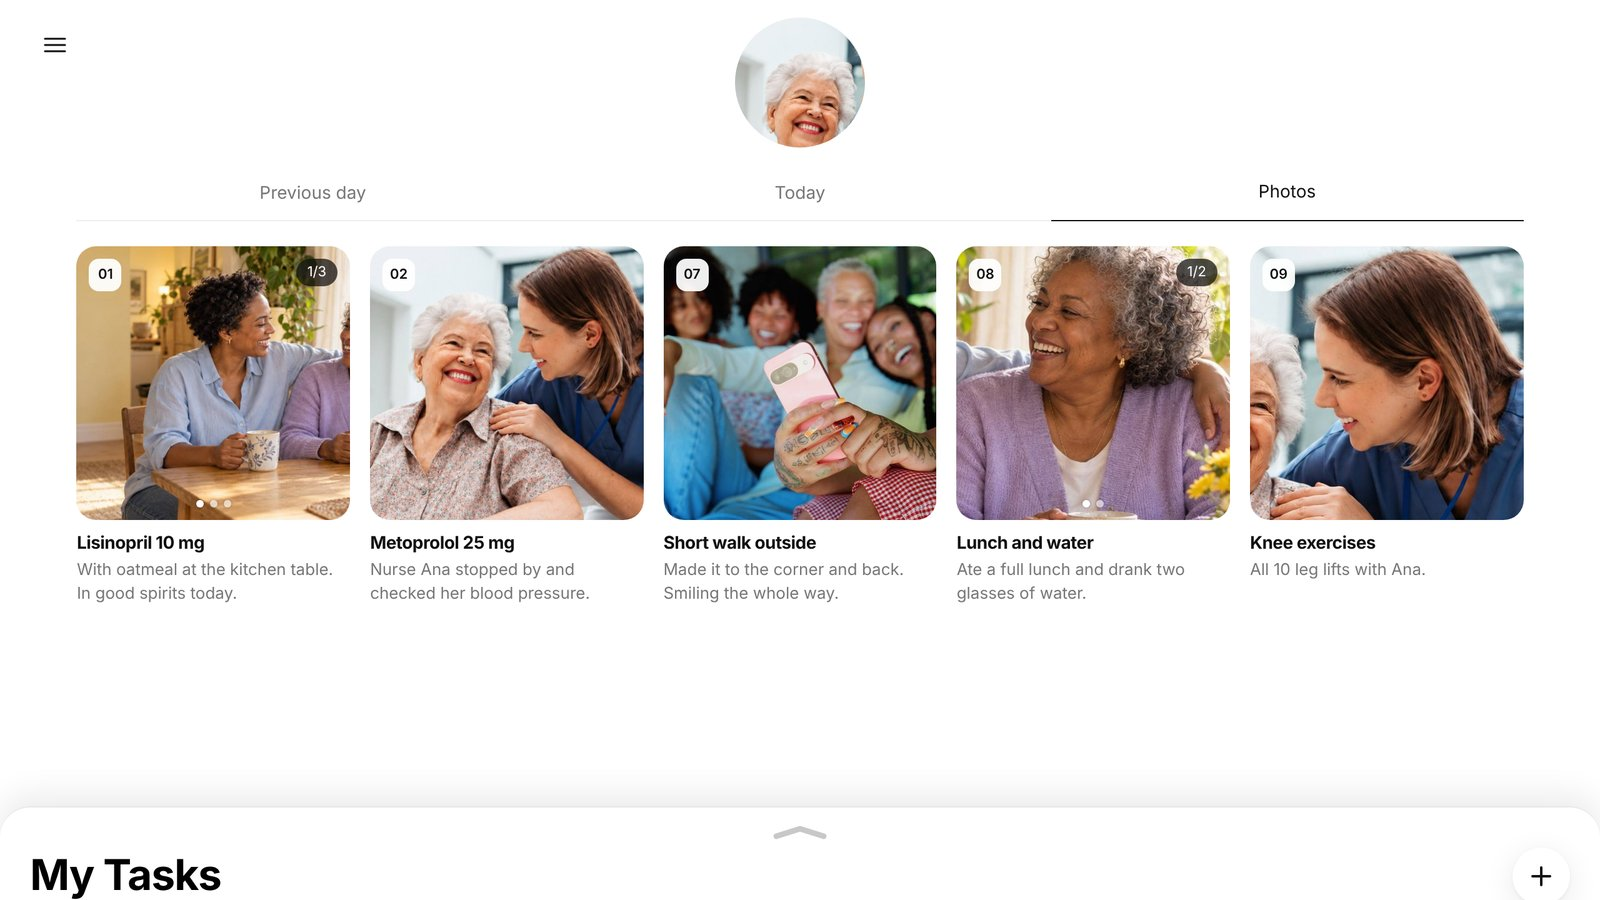
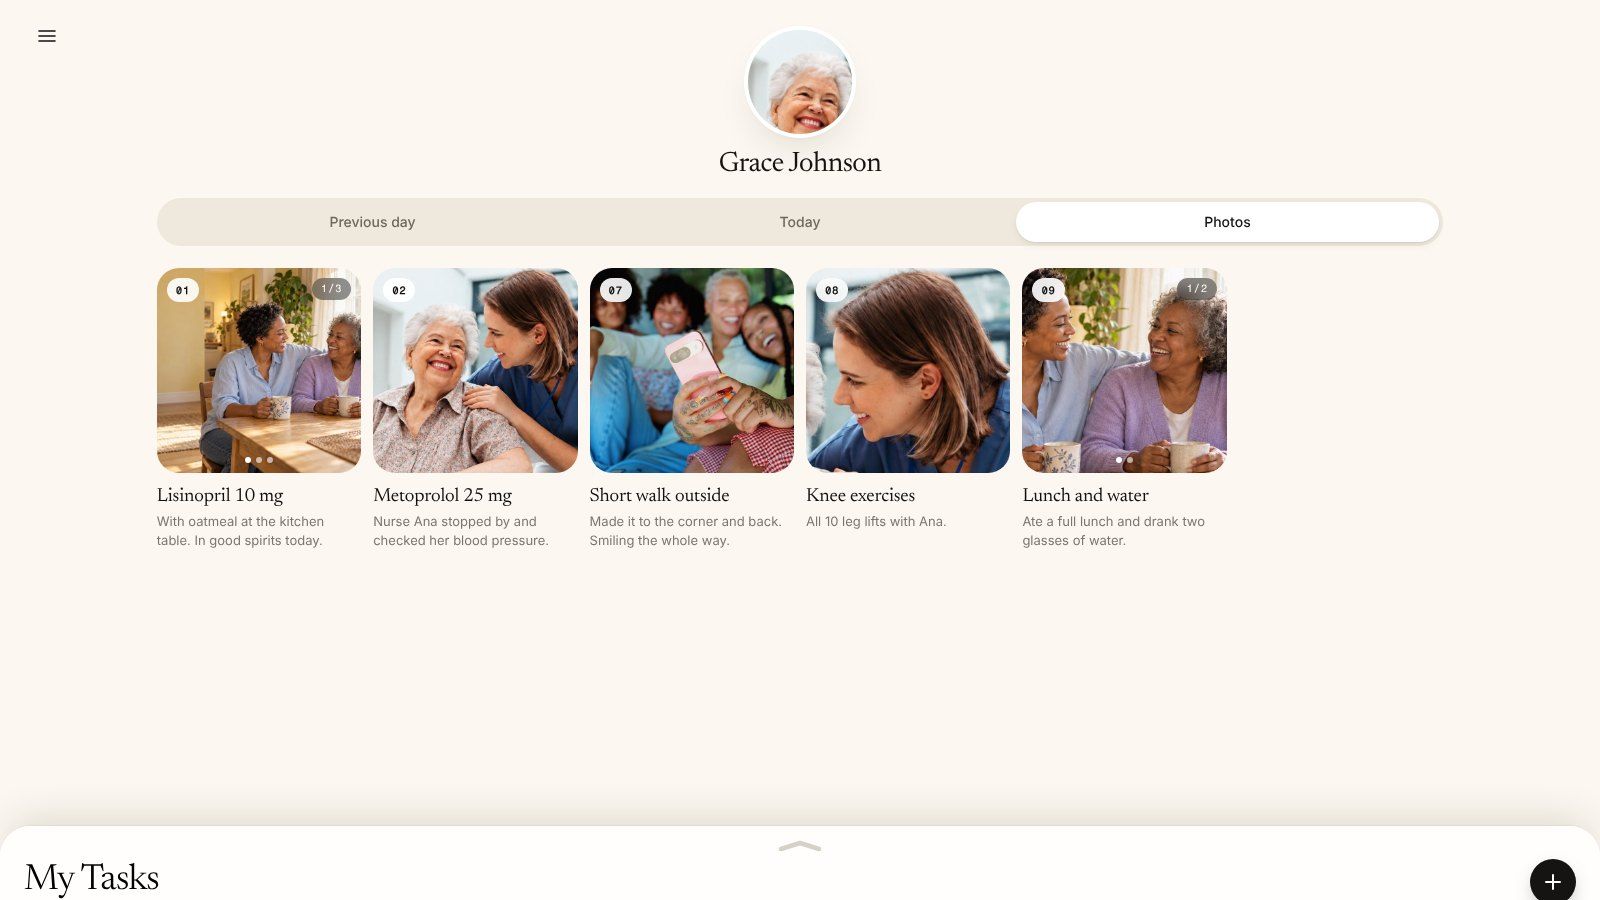
Landing: fresh app screens from the current Adltrack design
The phone and computer screens on the landing page (Photo updates and
Everyone on the same page) and the phones in the Sign in, Sign up, Daily
meds and Check-ins photos now show today's app: cream pages, the serif
My Tasks, pill tabs, the note pad report and the patient's name under
the photo. Demo data: Grace Johnson, documented by Maria Johnson.
The screen frames are cream to match. Layout and words are unchanged.

Claude-Session: https://claude.ai/code/session_0155WvTHPESpnZxFuHLdNdRF

diff --git a/landing/app-screens.css b/landing/app-screens.css
@@ -10,9 +10,9 @@ html body #why-Adltrack .intro-bottom p{max-width:450px;font-size:19px;line-heig
 html body #why-Adltrack .tedy-intro-actions{margin-top:40px}
 
 .app-screen-art{position:relative;justify-self:start;margin:0;padding:40px 0}
-.app-screen{position:relative;width:clamp(250px,19vw,292px);border-radius:32px;overflow:hidden;background:#fff;box-shadow:0 2px 6px #1d243312,0 24px 60px #1d24332e}
+.app-screen{position:relative;width:clamp(250px,19vw,292px);border-radius:32px;overflow:hidden;background:#fcf8f1;box-shadow:0 2px 6px #1d243312,0 24px 60px #1d24332e}
 .app-screen>img{display:block;width:100%;height:auto}
-.app-status{display:flex;align-items:center;justify-content:space-between;height:calc(clamp(250px,19vw,292px)*.115);padding:0 9% 0 12%;background:#fff;color:#101316;font-family:Inter,-apple-system,sans-serif;font-size:13px;font-weight:600;letter-spacing:-.2px}
+.app-status{display:flex;align-items:center;justify-content:space-between;height:calc(clamp(250px,19vw,292px)*.115);padding:0 9% 0 12%;background:#fcf8f1;color:#101316;font-family:Inter,-apple-system,sans-serif;font-size:13px;font-weight:600;letter-spacing:-.2px}
 .app-status svg{width:58px;height:13px;fill:currentColor}
 
 @media(max-width:1100px){

diff --git a/landing/desk-updates.css b/landing/desk-updates.css
@@ -2,7 +2,7 @@
    report behind, today's Photos in front), and the words on the right. */
 .desk-updates{display:grid;grid-template-columns:52% 48%;align-items:center;max-width:1400px;min-height:clamp(560px,48vw,720px);margin:40px auto;box-sizing:border-box}
 .desk-art{position:relative;margin:0 0 0 12%;aspect-ratio:1.42}
-.desk-window{position:absolute;overflow:hidden;border-radius:10px;background:#fff;box-shadow:0 2px 6px #1d243314,0 24px 60px #1d243333}
+.desk-window{position:absolute;overflow:hidden;border-radius:10px;background:#fcf8f1;box-shadow:0 2px 6px #1d243314,0 24px 60px #1d243333}
 .desk-window img{display:block;width:100%;height:auto}
 .desk-back{left:0;top:0;width:74%}
 .desk-front{right:0;bottom:0;width:66%}
